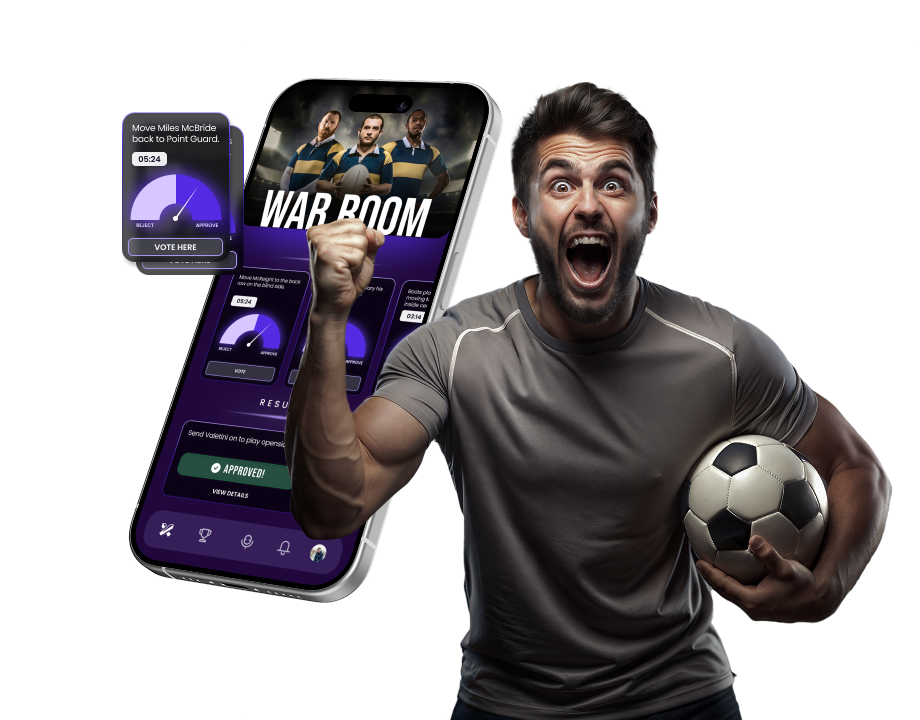
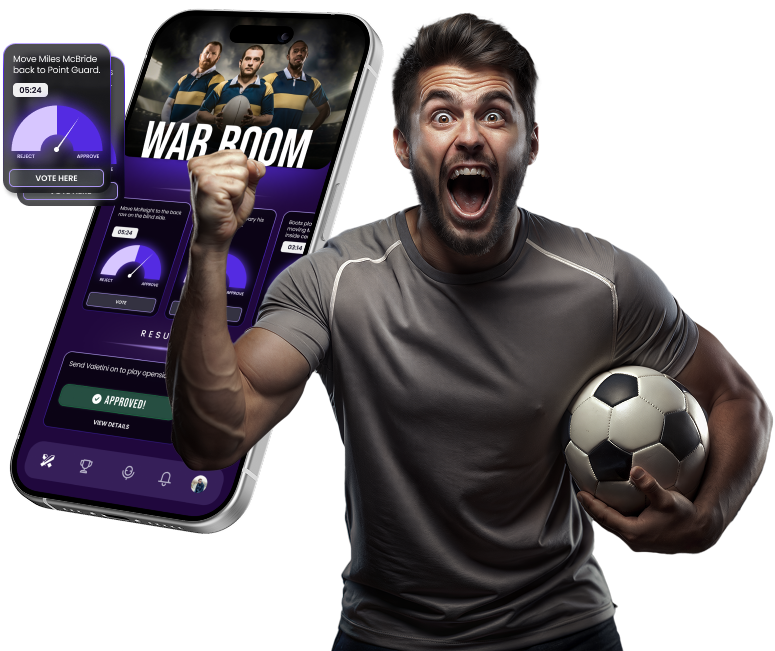
fix for-fans image

diff --git a/Css/for-fans/tablet-768.css b/Css/for-fans/tablet-768.css
@@ -64,6 +64,10 @@
     font-size: 15px !important;
 }
 
+.hero-image {
+margin-bottom: 0px !important;
+}
+
 /* ! Your Voice Matters */
 .your-voice-matters-section .grid {
     display: grid;
@@ -99,6 +103,10 @@
     top: -120px;
     width: 80%;
 
+}
+
+.get-inv-inst .banner .left img{ 
+    width: 100%;
 }
 
 /* ! Fair & Secure Participation */

diff --git a/Css/for-fans/mobile-480.css b/Css/for-fans/mobile-480.css
@@ -62,7 +62,12 @@
 }
 
 .hero-image {
-    margin-bottom: 0px !important;
+}
+
+
+.hero-image {
+    margin-bottom: 58px !important;
+    margin-right: 0px;
 }
 
 /* !Get Involved. instantly. */

diff --git a/Css/for-fans/for-fans.css b/Css/for-fans/for-fans.css
@@ -92,6 +92,11 @@
     flex: 1;
 }
 
+.hero-image {
+margin-right: -100px;
+margin-bottom: 0px;
+}
+
 .hero-image img {
     width: 100%;
     height: auto;
